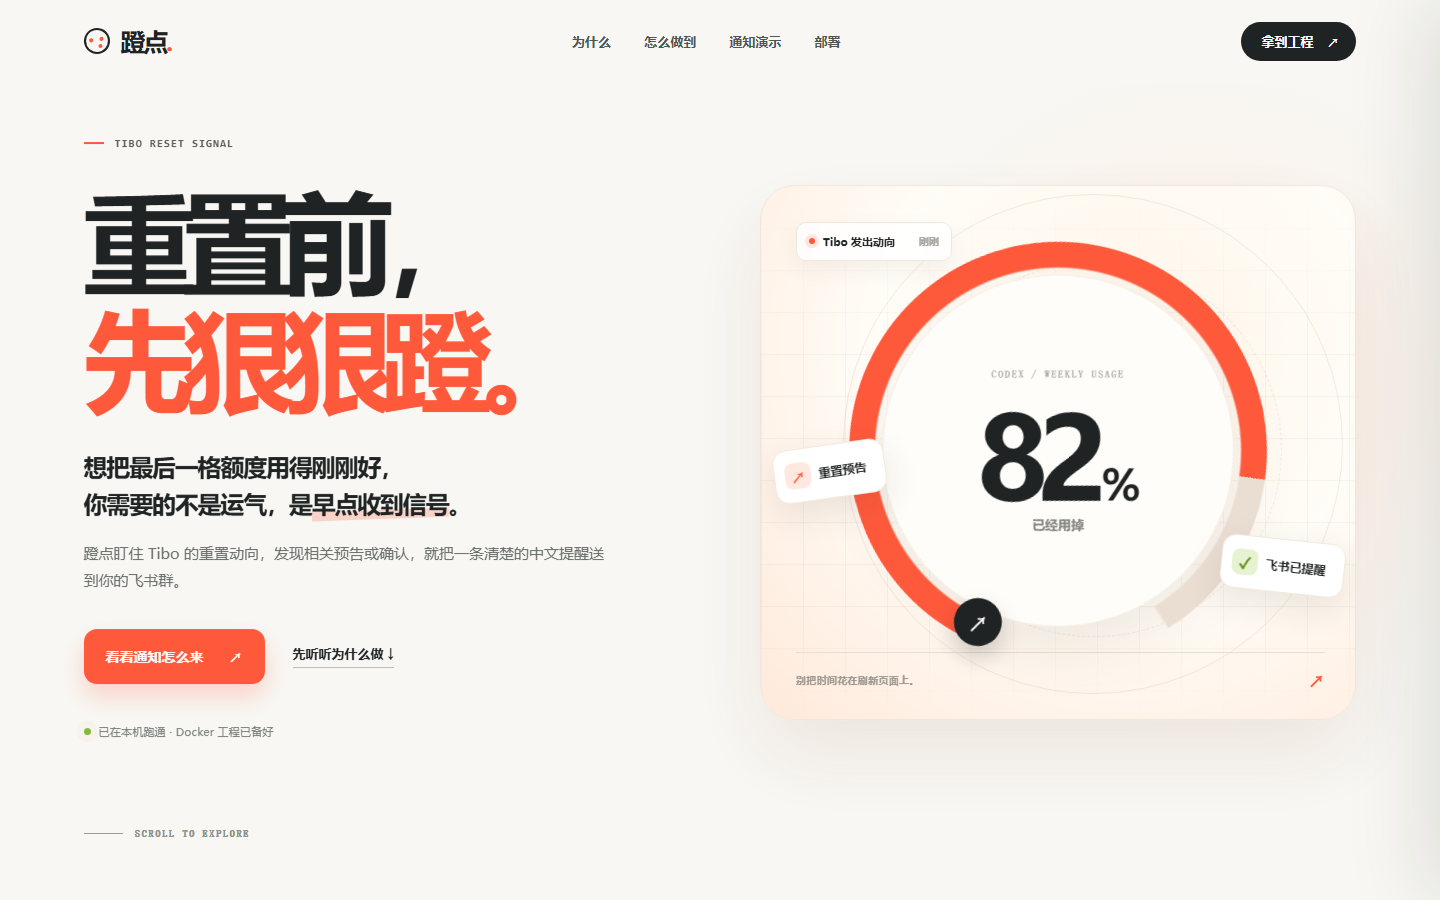
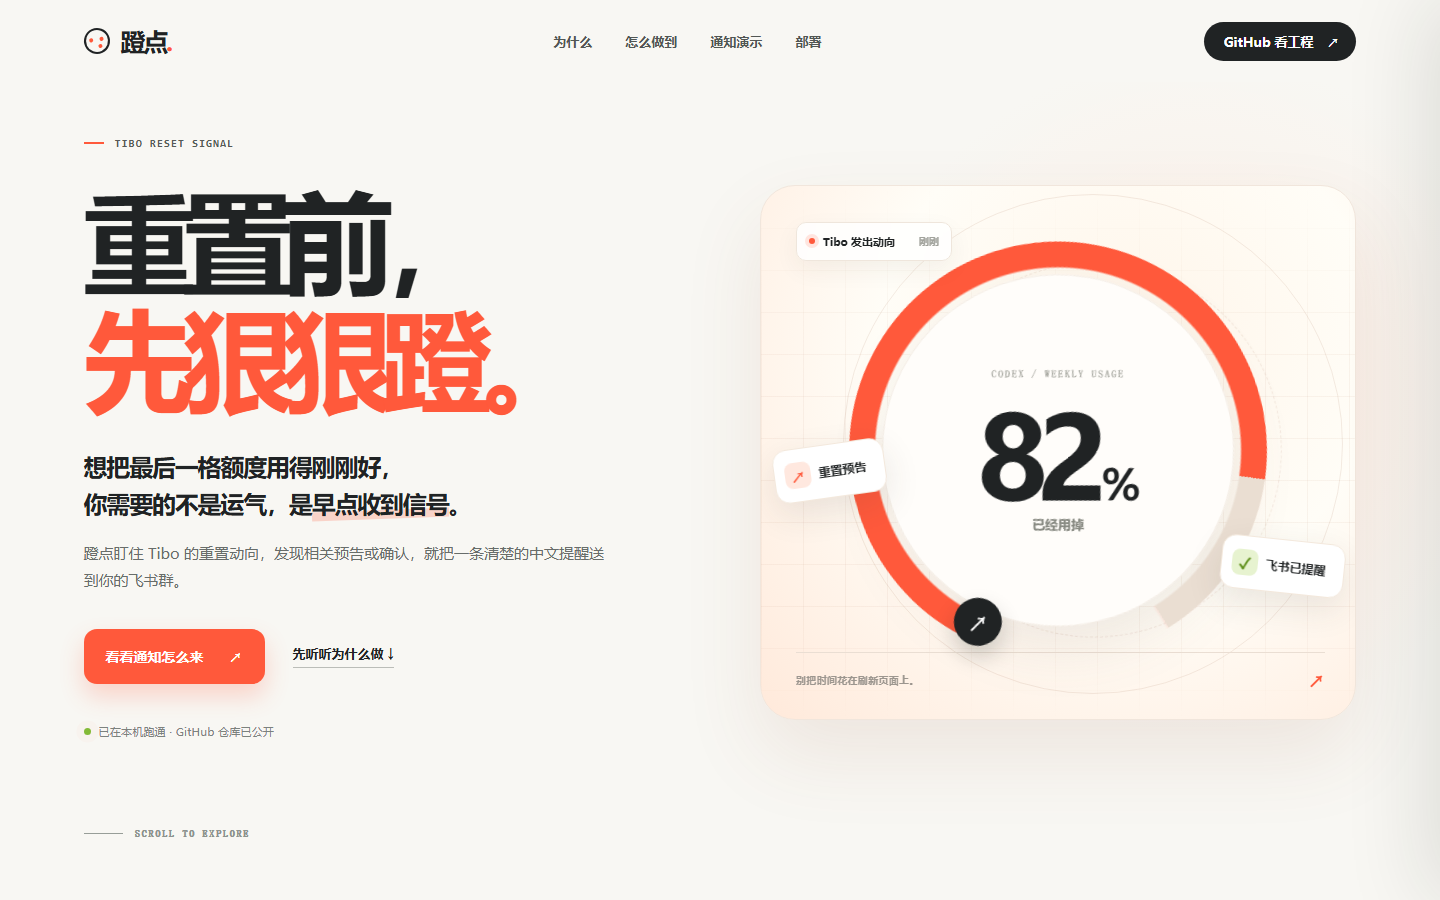
Use GitHub clone flow throughout demo

diff --git a/demo/index.html b/demo/index.html
@@ -23,7 +23,7 @@
       <a href="#experience">通知演示</a>
       <a href="#deploy">部署</a>
     </nav>
-    <a class="nav-cta" href="#deploy">拿到工程 <span aria-hidden="true">↗</span></a>
+    <a class="nav-cta" href="https://github.com/CurtisJiang3/deng-dian" target="_blank" rel="noopener noreferrer">GitHub 看工程 <span aria-hidden="true">↗</span></a>
   </header>
 
   <main>
@@ -38,7 +38,7 @@
           <a class="button button-primary" href="#experience">看看通知怎么来 <span aria-hidden="true">↗</span></a>
           <a class="text-link" href="#why">先听听为什么做 <span aria-hidden="true">↓</span></a>
         </div>
-        <div class="hero-meta"><span class="live-dot"></span> 已在本机跑通 · Docker 工程已备好</div>
+        <div class="hero-meta"><span class="live-dot"></span> 已在本机跑通 · GitHub 仓库已公开</div>
       </div>
 
       <div class="hero-stage reveal" aria-label="额度与重置信号的概念演示">
@@ -167,28 +167,31 @@
     </section>
 
     <section class="deploy section-shell" id="deploy" aria-labelledby="deployTitle">
-      <div class="section-index reveal"><span>04 / SHIP IT</span><span>交付不是一张截图</span></div>
+      <div class="section-index reveal"><span>04 / GET THE CODE</span><span>工程就在 GitHub</span></div>
       <div class="deploy-layout">
         <div class="deploy-copy reveal">
-          <span class="docker-badge"><span class="docker-blocks" aria-hidden="true">▦</span> DOCKER READY</span>
-          <h2 id="deployTitle">填好 Webhook，<br><em>一条命令开跑。</em></h2>
-          <p>交付的是可自托管的 Docker 工程：轮询程序、去重状态、失败重试、配置示例和 Compose 文件都在里面。数据留在你的部署环境。</p>
-          <div class="deploy-steps"><span><b>1</b> 配置群机器人 Webhook</span><span><b>2</b> 启动 Docker Compose</span><span><b>3</b> 等待下一条信号</span></div>
+          <span class="docker-badge"><span class="docker-blocks" aria-hidden="true">▦</span> GITHUB · DOCKER READY</span>
+          <h2 id="deployTitle">GitHub 拉取，<br><em>填好就开跑。</em></h2>
+          <p>工程已放在 GitHub：克隆仓库，填入自己的群机器人 Webhook，再用 Docker Compose 启动。轮询、去重和失败重试都随工程一起交付，数据留在你的部署环境。</p>
+          <div class="deploy-steps"><span><b>1</b> 克隆 GitHub 仓库</span><span><b>2</b> 配置群机器人 Webhook</span><span><b>3</b> 启动 Docker Compose</span></div>
         </div>
         <div class="terminal-card reveal">
-          <div class="terminal-head"><span class="traffic"><i></i><i></i><i></i></span><span>terminal / deploy</span><span>● ready</span></div>
+          <div class="terminal-head"><span class="traffic"><i></i><i></i><i></i></span><span>github / deploy</span><span>● public</span></div>
           <div class="terminal-body">
-            <p class="terminal-comment"># 复制配置示例，填入自己的飞书 Webhook</p>
+            <p class="terminal-comment"># 从 GitHub 克隆工程</p>
+            <div class="command-line clone-line"><p><span class="terminal-prompt">$</span> <code id="cloneCommand">git clone https://github.com/CurtisJiang3/deng-dian.git</code></p><button type="button" data-copy-target="cloneCommand" data-copy-label="GitHub 克隆命令" aria-label="复制 GitHub 克隆命令">复制</button></div>
+            <p class="terminal-comment terminal-gap"># 进入工程，复制配置示例</p>
+            <p><span class="terminal-prompt">$</span> cd deng-dian</p>
             <p><span class="terminal-prompt">$</span> cp .env.example .env</p>
-            <p class="terminal-comment terminal-gap"># 填好后，一条命令启动</p>
-            <div class="command-line"><p><span class="terminal-prompt">$</span> <code id="dockerCommand">docker compose up --build -d</code></p><button type="button" id="copyCommand" aria-label="复制 Docker 启动命令">复制</button></div>
+            <p class="terminal-comment terminal-gap"># 在 .env 中填入 Webhook，随后启动</p>
+            <div class="command-line"><p><span class="terminal-prompt">$</span> <code id="dockerCommand">docker compose up --build -d</code></p><button type="button" data-copy-target="dockerCommand" data-copy-label="Docker 启动命令" aria-label="复制 Docker 启动命令">复制</button></div>
             <div class="terminal-success"><span>✓</span> 首次运行建立基线，不刷历史消息</div>
             <div class="terminal-success"><span>✓</span> 新的预告与确认，发现后推送</div>
           </div>
-          <div class="terminal-footer"><span>Python · SQLite · Docker Compose</span><a href="../README.md">查看部署说明 ↗</a></div>
+          <div class="terminal-footer"><span>Python · SQLite · Docker Compose</span><a href="https://github.com/CurtisJiang3/deng-dian#docker-compose-%E9%83%A8%E7%BD%B2" target="_blank" rel="noopener noreferrer">GitHub 部署说明 ↗</a></div>
         </div>
       </div>
-      <div class="deliverable-strip reveal"><span>可交付文件</span><strong>Dockerfile</strong><strong>compose.yaml</strong><strong>.env.example</strong><strong>README.md</strong><a href="../dist/tibo-feishu-docker-source.zip" download>下载工程包 ↗</a></div>
+      <div class="deliverable-strip reveal"><span>GitHub · CurtisJiang3/deng-dian</span><strong>源码</strong><strong>Docker Compose</strong><strong>配置示例</strong><strong>部署说明</strong><a href="https://github.com/CurtisJiang3/deng-dian" target="_blank" rel="noopener noreferrer">前往 GitHub 拉取工程 ↗</a></div>
     </section>
 
     <section class="closing section-shell" aria-labelledby="closingTitle">

diff --git a/demo/app.js b/demo/app.js
@@ -14,7 +14,7 @@ const toastText = document.getElementById('toastText');
 const drawer = document.getElementById('detailDrawer');
 const backdrop = document.getElementById('drawerBackdrop');
 const closeDrawerButton = document.getElementById('closeDrawer');
-const copyCommandButton = document.getElementById('copyCommand');
+const copyButtons = [...document.querySelectorAll('[data-copy-target]')];
 let activeState = 'announce';
 let toastTimer;
 let lastFocusedElement;
@@ -141,25 +141,27 @@ document.addEventListener('keydown', (event) => {
   if (event.key === 'Escape' && drawer.classList.contains('is-visible')) closeDrawer();
 });
 
-copyCommandButton.addEventListener('click', async () => {
-  const command = document.getElementById('dockerCommand').textContent.trim();
-  try {
-    await navigator.clipboard.writeText(command);
-    copyCommandButton.textContent = '已复制';
-    showToast('Docker 启动命令已复制');
-  } catch {
-    const helper = document.createElement('textarea');
-    helper.value = command;
-    helper.style.position = 'fixed';
-    helper.style.opacity = '0';
-    document.body.appendChild(helper);
-    helper.select();
-    const copied = document.execCommand('copy');
-    helper.remove();
-    copyCommandButton.textContent = copied ? '已复制' : '请手动复制';
-    if (copied) showToast('Docker 启动命令已复制');
-  }
-  setTimeout(() => { copyCommandButton.textContent = '复制'; }, 2500);
+copyButtons.forEach((button) => {
+  button.addEventListener('click', async () => {
+    const command = document.getElementById(button.dataset.copyTarget).textContent.trim();
+    let copied = false;
+    try {
+      await navigator.clipboard.writeText(command);
+      copied = true;
+    } catch {
+      const helper = document.createElement('textarea');
+      helper.value = command;
+      helper.style.position = 'fixed';
+      helper.style.opacity = '0';
+      document.body.appendChild(helper);
+      helper.select();
+      copied = document.execCommand('copy');
+      helper.remove();
+    }
+    button.textContent = copied ? '已复制' : '请手动复制';
+    if (copied) showToast(`${button.dataset.copyLabel}已复制`);
+    setTimeout(() => { button.textContent = '复制'; }, 2500);
+  });
 });
 
 updateExample(activeState);

diff --git a/demo/styles.css b/demo/styles.css
@@ -218,6 +218,7 @@ h2 { letter-spacing: -.077em; font-weight: 830; }
 .terminal-prompt { color: #ff866e; padding-right: 8px; }
 .command-line { display: flex; align-items: center; justify-content: space-between; gap: 10px; background: #30383a; padding: 8px 10px 8px 12px; border-radius: 7px; margin-left: -12px; width: calc(100% + 12px); }
 .command-line p { margin: 0; overflow-x: auto; }
+.clone-line p { white-space: normal; overflow-wrap: anywhere; }
 .command-line code { color: #d9f199; font-family: inherit; }
 .command-line button { border: 1px solid #586364; background: #3c4748; color: #fff; padding: 6px 10px; border-radius: 5px; font-family: inherit; font-size: 10px; flex: 0 0 auto; }
 .command-line button:hover { background: var(--accent); border-color: var(--accent); }
